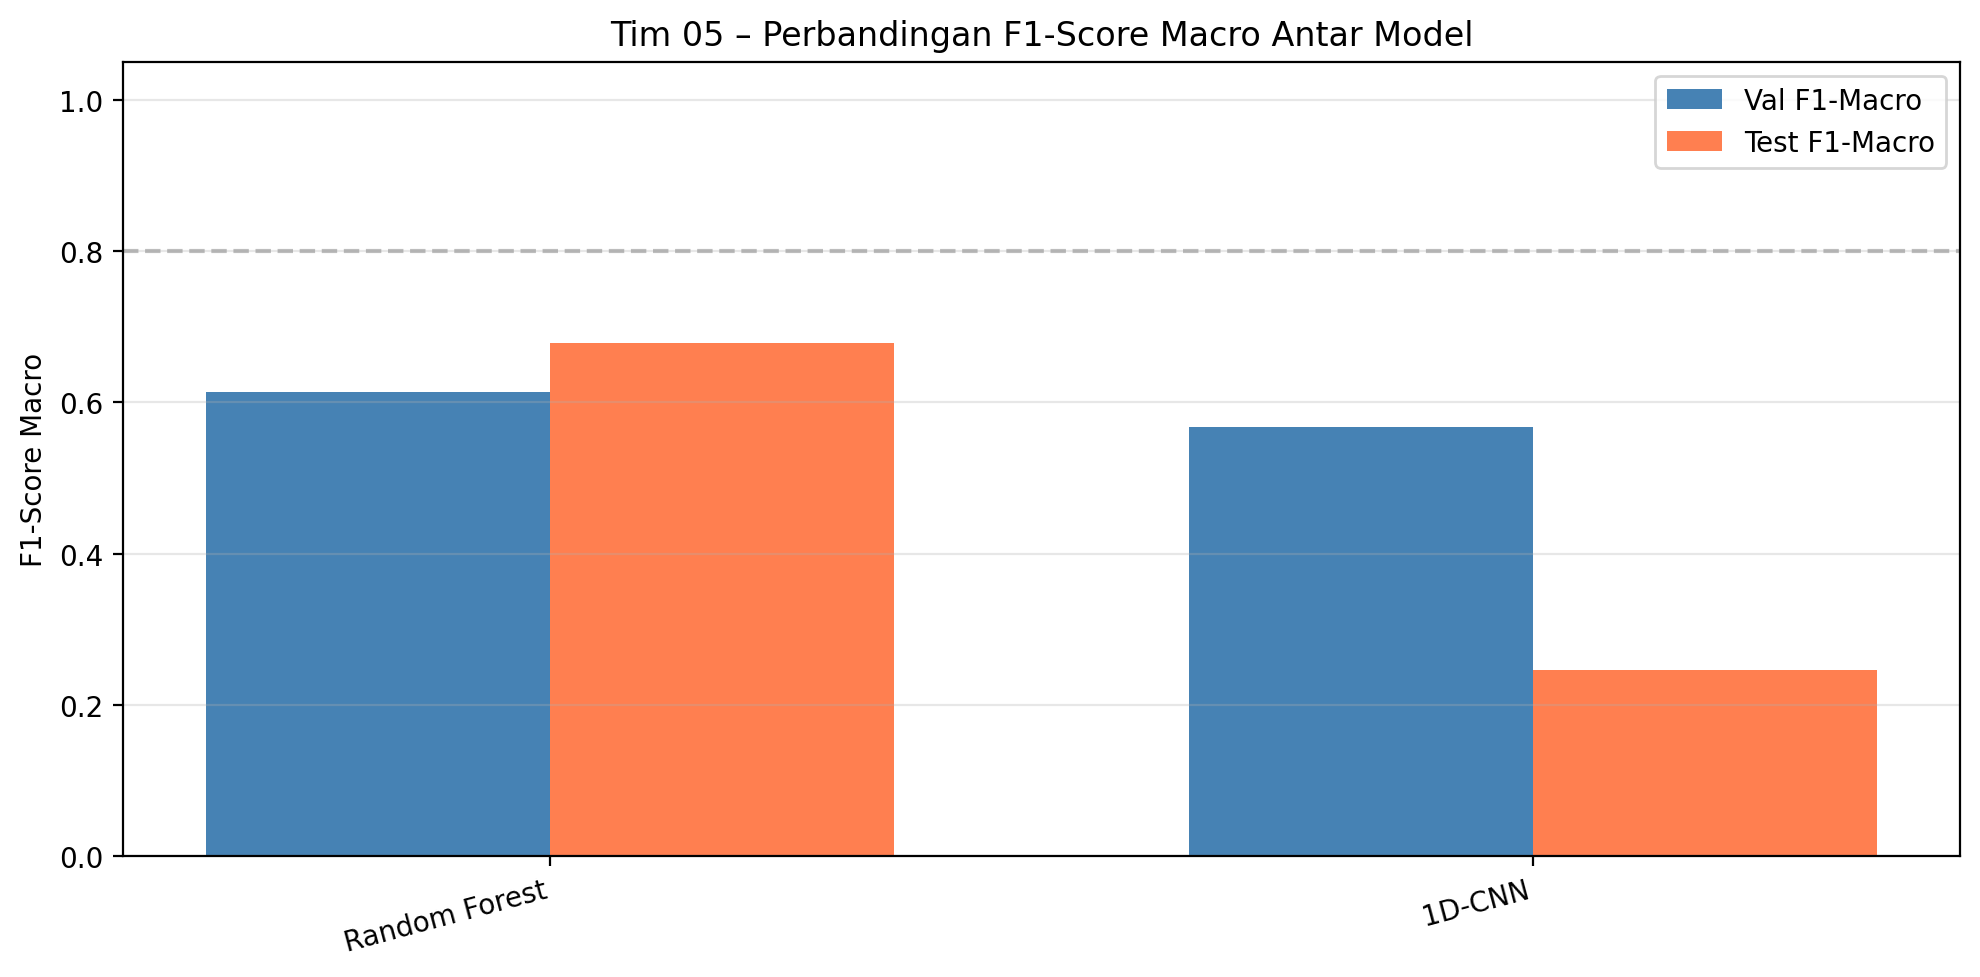
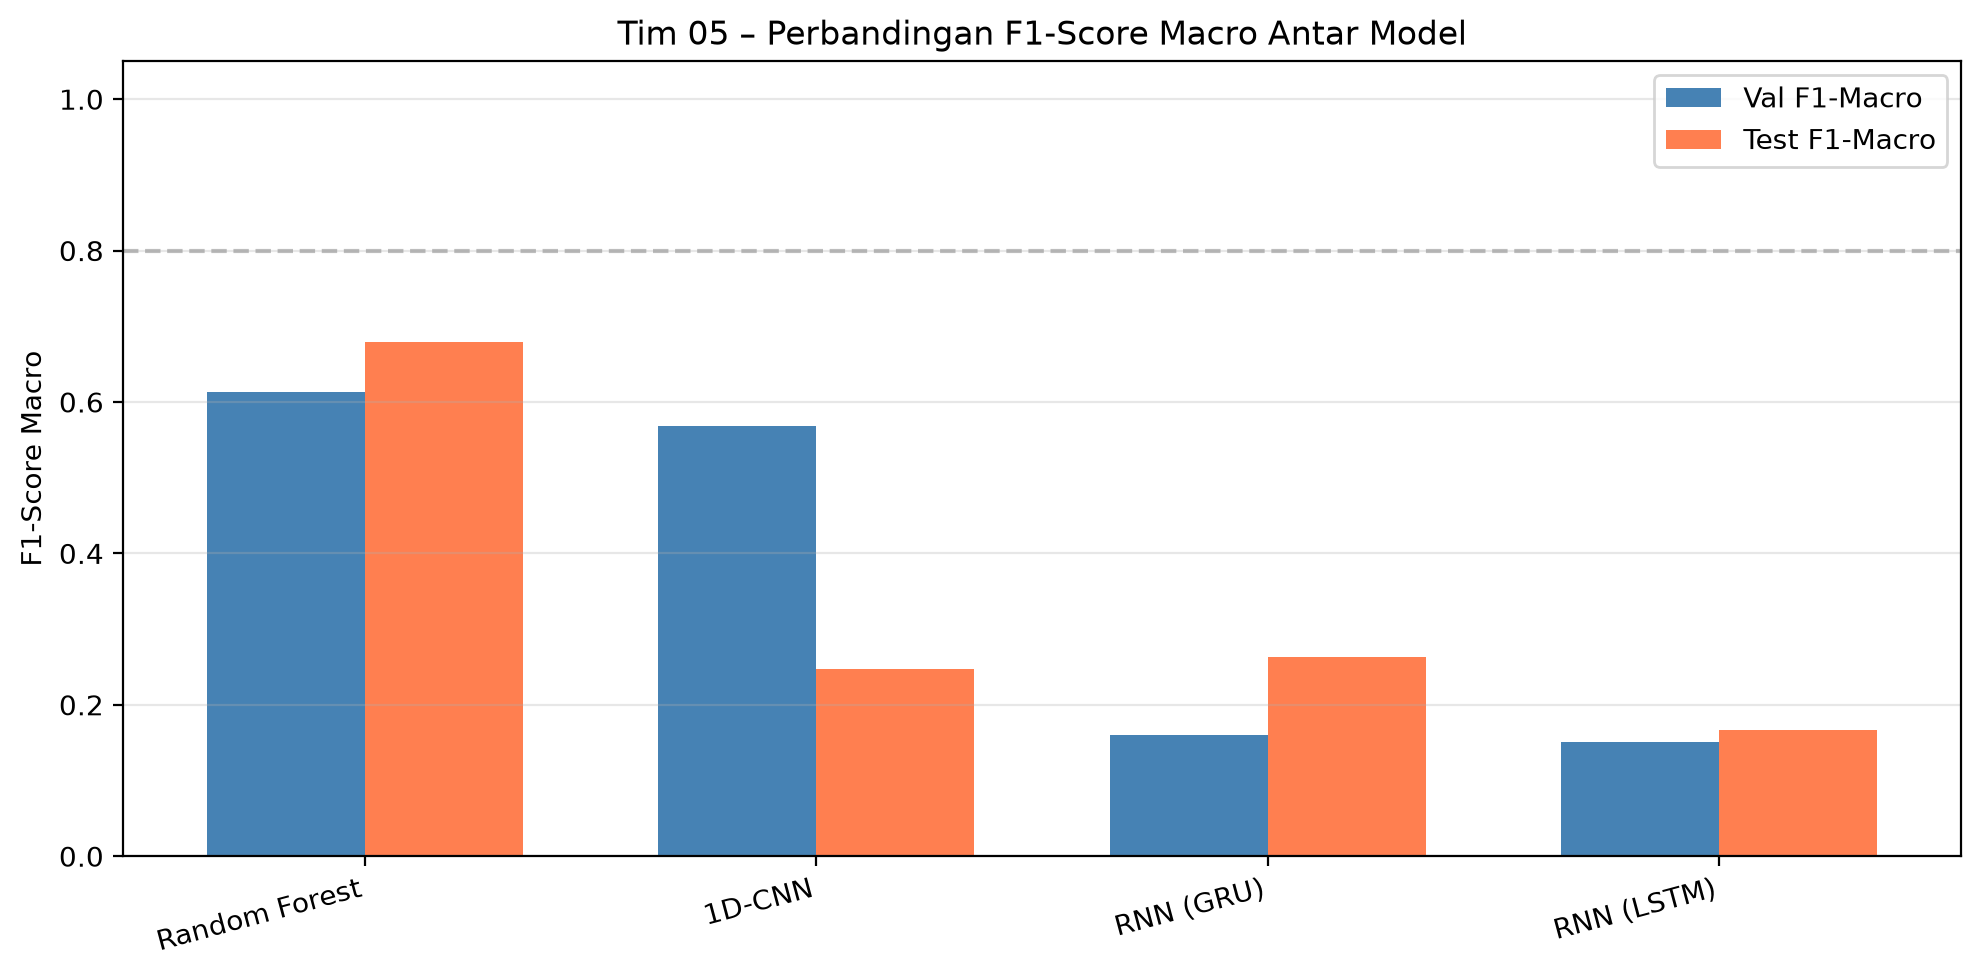
DONE 122450058 Sprint 1

diff --git a/results/perbandingan_model.md b/results/perbandingan_model.md
@@ -4,7 +4,8 @@
 |-------|:-----------:|:-------:|:-------------:|:--------:|:-------:|:---------:|
 | Random Forest | 0.6133 | 0.6250 | 0.6788 | 0.6875 | — | 2.2 |
 | 1D-CNN | 0.5676 | 0.6250 | 0.2467 | 0.3750 | 480389 | 0.4 |
-| RNN (LSTM) | — | — | — | — | — | — |
+| RNN (GRU) | 0.1600 | 0.2500 | 0.2633 | 0.2500 | — | 4.1 |
+| RNN (LSTM) | 0.1511 | 0.1875 | 0.1667 | 0.1875 | — | 1.8 |
 | Transformer | — | — | — | — | — | — |
 | Autoencoder | — | — | — | — | — | — |
 
